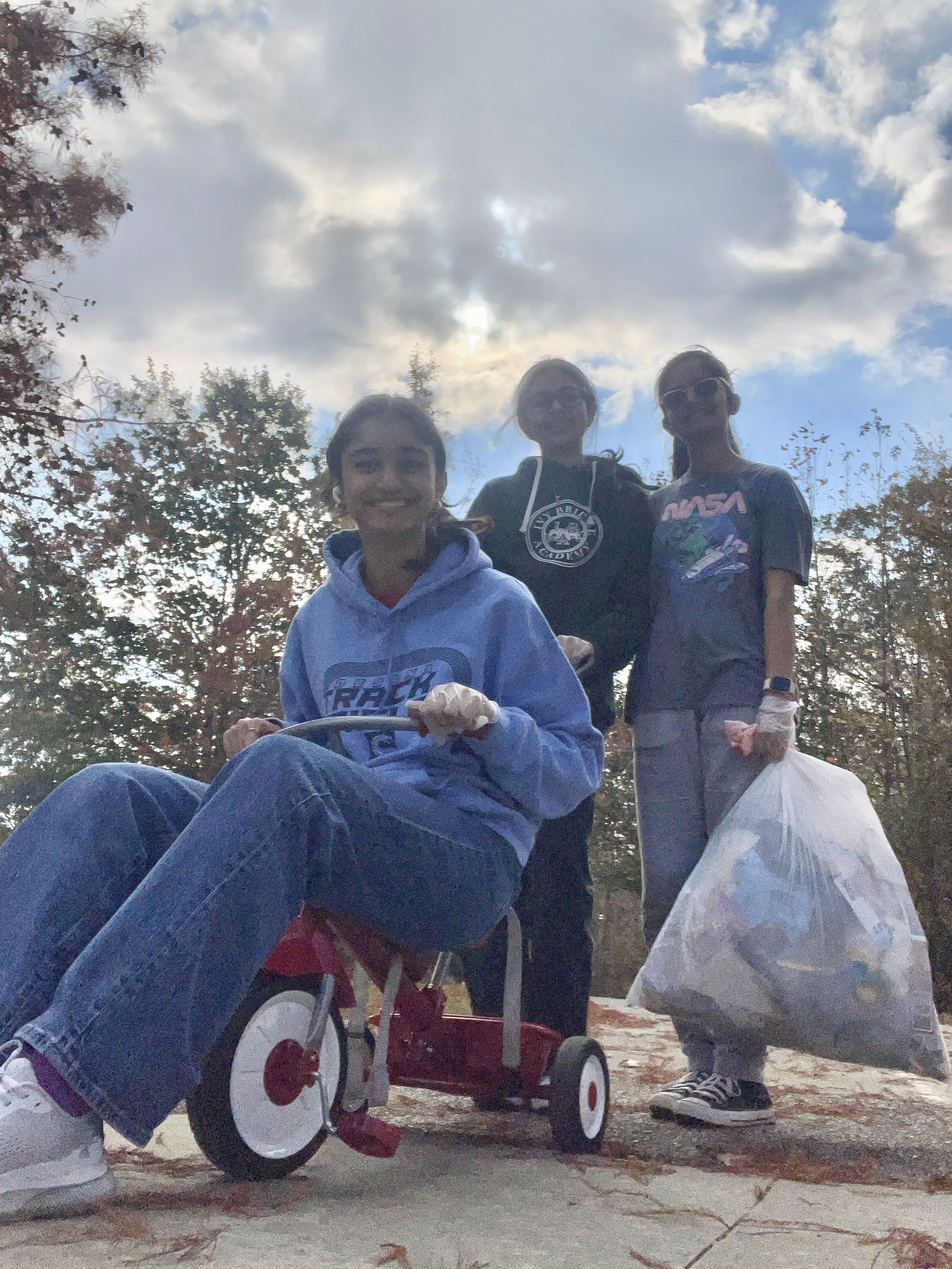
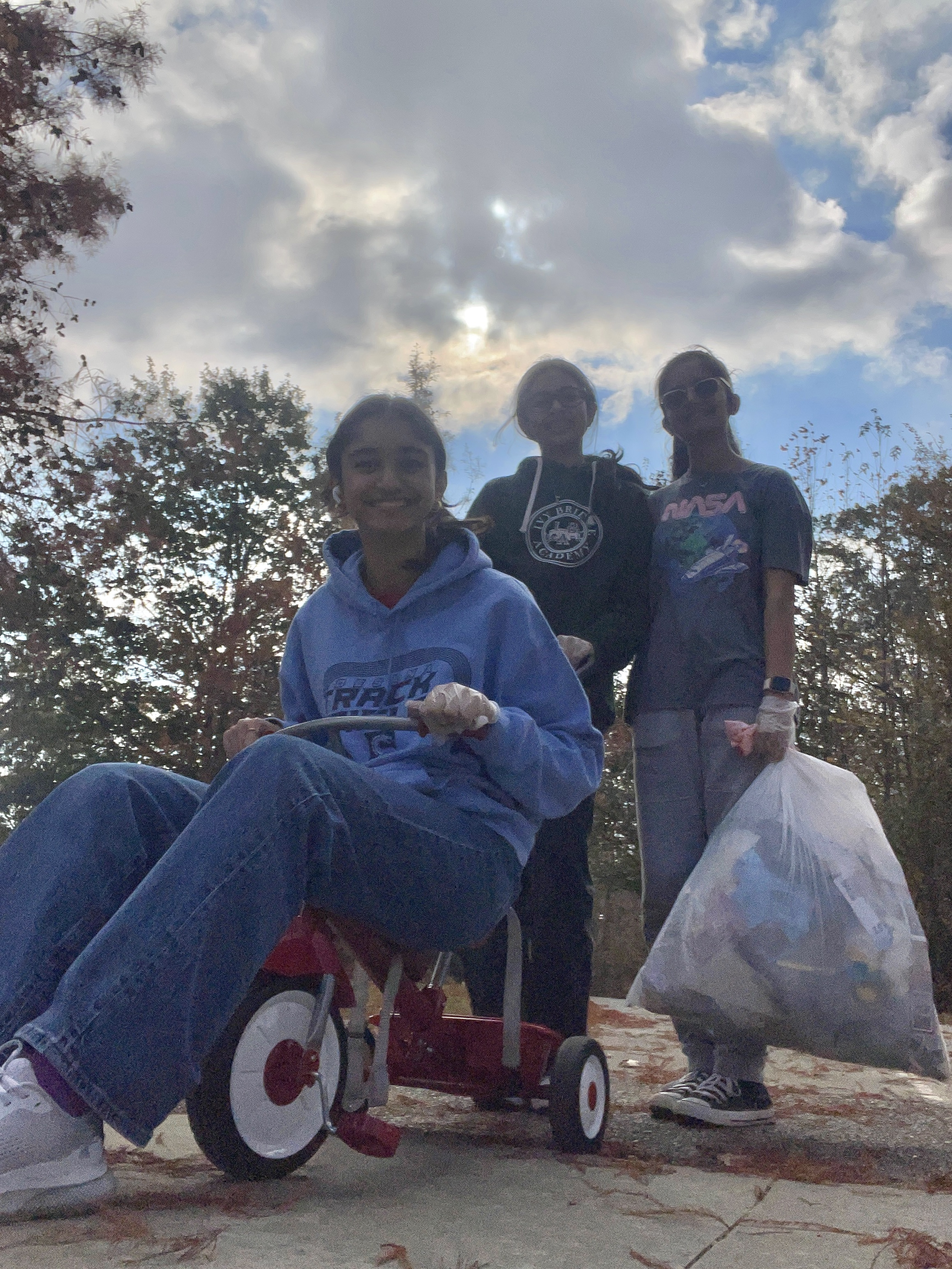
Fixing Image Quality and positioning

diff --git a/src/pages/Home.tsx b/src/pages/Home.tsx
@@ -10,13 +10,13 @@ const Home = () => {
 
   // Placeholder images for the carousel
   const carouselImages = [
-    "./images/fowler-park-3.jpg?w=600&h=400&fit=crop",
     './images/forsyth-park-2.jpg?w=600&h=400&fit=crop',
     './images/Forsyth-book-1.jpg?w=600&h=400&fit=crop',
     './images/forsyth-park-1.png?w=600&h=400&fit=crop',
     './images/forsyth-thrift-1.png?w=600&h=400&fit=crop',
     "./images/Card_Event_1.jpg?w=600&h=400&fit=crop",
-    "./images/service-project-2.JPG?w=600&h=400&fit=crop"
+    "./images/service-project-2.JPG?w=600&h=400&fit=crop",
+    "./images/fowler-park-3.jpg?w=600&h=400&fit=crop"
   ];
 
   const nextImage = () => {
